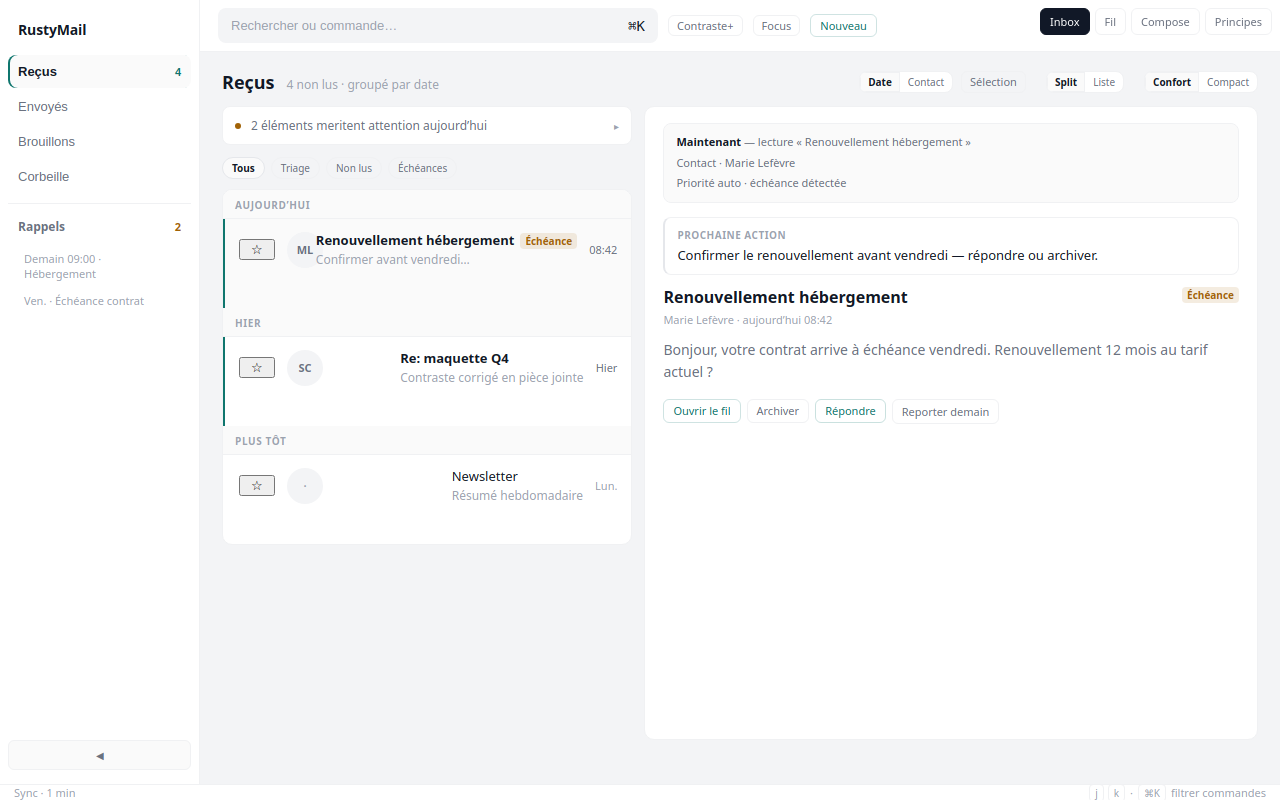
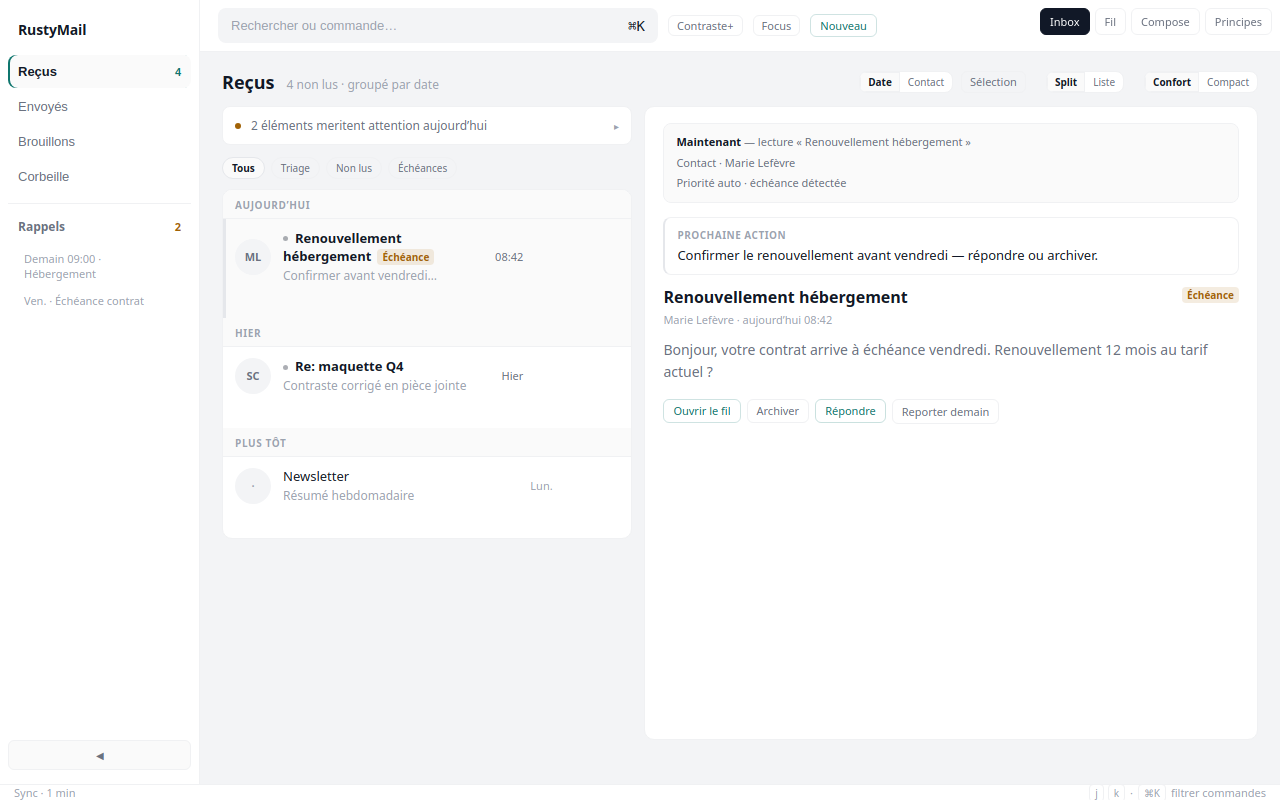
fix(mockups): corriger grille inbox — fin des carrés teal (stripe + row-pin CSS)

diff --git a/docs/mockups/clarity/inbox.html b/docs/mockups/clarity/inbox.html
@@ -103,9 +103,7 @@
                   data-preview-action="Confirmer le renouvellement avant vendredi — répondre ou archiver."
                 >
                   <a class="row-link" href="thread.html" aria-label="Ouvrir le fil"></a>
-                  <button type="button" class="row-pin" aria-label="Épingler">☆</button>
                   <label class="row-check"><input type="checkbox" aria-label="Sélectionner" /></label>
-                  <div class="stripe"></div>
                   <div class="avatar">ML</div>
                   <div>
                     <p class="subject">Renouvellement hébergement<span class="badge-urgent">Échéance</span></p>
@@ -116,6 +114,7 @@
                     <button type="button">Archiver</button>
                     <button type="button">Lu</button>
                   </div>
+                  <button type="button" class="row-pin" aria-label="Épingler">☆</button>
                 </article>
               </div>
               <div class="list-section">
@@ -132,9 +131,7 @@
                   data-preview-action="Valider la maquette Q4 ou demander une révision."
                 >
                   <a class="row-link" href="thread.html" aria-label="Ouvrir le fil"></a>
-                  <button type="button" class="row-pin" aria-label="Épingler">☆</button>
                   <label class="row-check"><input type="checkbox" aria-label="Sélectionner" /></label>
-                  <div class="stripe"></div>
                   <div class="avatar">SC</div>
                   <div>
                     <p class="subject">Re: maquette Q4</p>
@@ -145,6 +142,7 @@
                     <button type="button">Archiver</button>
                     <button type="button">Lu</button>
                   </div>
+                  <button type="button" class="row-pin" aria-label="Épingler">☆</button>
                 </article>
               </div>
               <div class="list-section">
@@ -158,9 +156,7 @@
                   data-thread="thread.html"
                   data-sender="Équipe produit"
                 >
-                  <button type="button" class="row-pin" aria-label="Épingler">☆</button>
                   <label class="row-check"><input type="checkbox" aria-label="Sélectionner" /></label>
-                  <div class="stripe"></div>
                   <div class="avatar">·</div>
                   <div>
                     <p class="subject">Newsletter</p>
@@ -170,6 +166,7 @@
                   <div class="row-actions">
                     <button type="button">Archiver</button>
                   </div>
+                  <button type="button" class="row-pin" aria-label="Épingler">☆</button>
                 </article>
               </div>
             </div>

diff --git a/docs/mockups/clarity/clarity.css b/docs/mockups/clarity/clarity.css
@@ -417,11 +417,14 @@ a.btn-primary--soft {
   grid-template-columns: 36px minmax(0, 1fr) auto auto;
   gap: 8px 12px;
   align-items: center;
-  padding: 12px 12px 12px 14px;
+  padding: 10px 12px;
   border-bottom: 1px solid var(--border-subtle);
   transition: background var(--ease);
   position: relative;
-  border-left: 2px solid transparent;
+}
+
+.row .stripe {
+  display: none !important;
 }
 
 .row-link {
@@ -480,24 +483,23 @@ a.btn-primary--soft {
 
 .row.is-selected {
   background: var(--surface-2);
-  box-shadow: none;
-  border-left-color: var(--text);
-}
-
-.row.unread {
-  border-left-color: var(--primary);
-}
-
-.row.unread.is-selected {
-  border-left-color: var(--primary);
-}
-
-.row .stripe {
-  display: none;
+  box-shadow: inset 3px 0 0 var(--border);
 }
 
 .row.unread .subject {
   font-weight: 600;
+}
+
+.row.unread .subject::before {
+  content: "";
+  display: inline-block;
+  width: 5px;
+  height: 5px;
+  margin-right: 7px;
+  border-radius: 50%;
+  background: var(--text);
+  vertical-align: 0.15em;
+  opacity: 0.35;
 }
 
 .badge-urgent {
@@ -1487,21 +1489,24 @@ body.batch-mode .batch-bar {
 }
 
 /* v8 — tri contact, épingler, activité, ton, navigation fil */
+.row-pin {
   position: absolute;
-  right: 10px;
+  right: 72px;
   top: 50%;
   transform: translateY(-50%);
   z-index: 2;
   border: 0;
-  background: var(--surface);
+  background: transparent;
   color: var(--faint);
   cursor: pointer;
-  font-size: 13px;
+  font-size: 12px;
   line-height: 1;
-  padding: 2px 4px;
+  padding: 2px;
   border-radius: 4px;
   opacity: 0;
   transition: opacity var(--ease);
+  width: auto;
+  height: auto;
 }
 
 .row:hover .row-pin,
